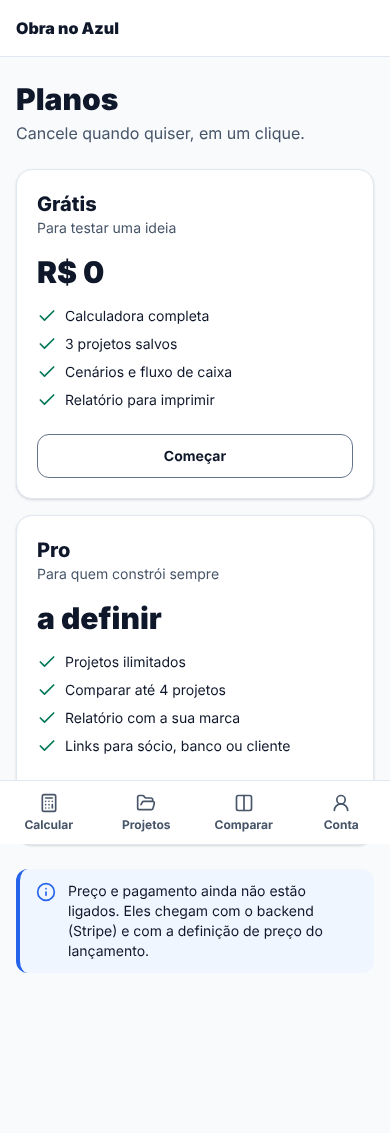
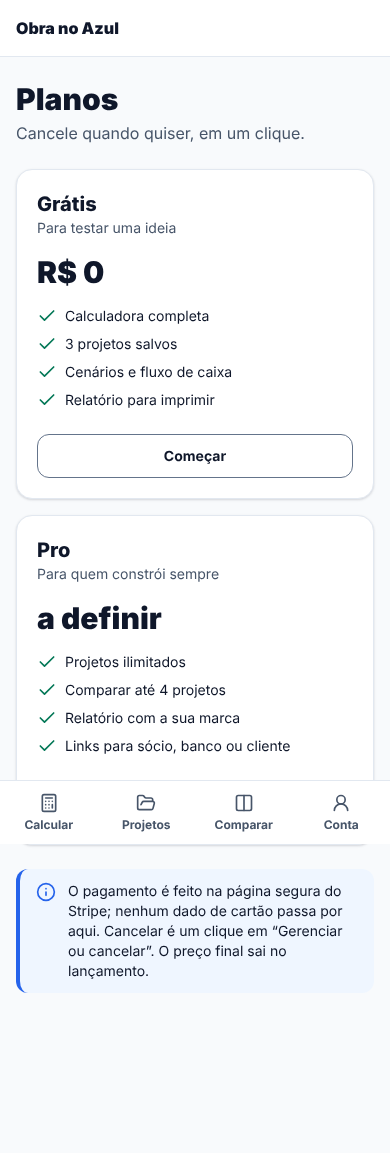
backend: backend checklist, feature matrix and refreshed screenshots
Claude-Session: https://claude.ai/code/session_016f3JqGY3hF1P1CWisDVzY6

diff --git a/replica/backend.md b/replica/backend.md
@@ -1,0 +1,116 @@
+# Backend
+
+Data: 2026-10-18. Stack do `architecture.md`: Supabase (Postgres + RLS + Auth +
+Storage), Stripe, Resend, jobs na Vercel. Sem as chaves do Supabase o app
+continua em modo demonstração (localStorage), com as mesmas telas.
+
+## O que foi testado, e o que não
+
+| parte | como foi testado | resultado |
+| --- | --- | --- |
+| migrations | `scripts/db-migrate.sh` num Postgres 16 local, com um `auth` imitando o do Supabase; rodar duas vezes não repete | ok |
+| RLS | segundo usuário: 0 projetos, cenários, links e assinaturas de outro; não altera nada; não grava CUB (não admin), `job_runs`, `rate_limits`; não chama `hit_rate_limit` | ok |
+| plano | service role (webhook) muda `plan`; o próprio usuário não consegue | ok |
+| limite free | 4º projeto ativo recusado no banco (trigger com trava) | ok (no build anterior) |
+| rate limit | 3ª tentativa numa janela de 2 é recusada | ok |
+| webhook Stripe | 13 testes: checkout, criado/atualizado/cancelado, past_due, cliente sem metadata, cliente desconhecido, pagamento falhou (1 e-mail), evento repetido, falha no meio não marca o evento | ok |
+| assinatura do webhook | biblioteca oficial do Stripe, offline: válida, corpo alterado, outro segredo, replay de 1 h | ok |
+| rotas | webhook 400 sem/ com assinatura ruim e 200 com boa; cron 401 sem segredo, 404 job desconhecido | ok |
+| segredos | build com chaves falsas marcadas: nenhuma no bundle do navegador | ok |
+| modo Supabase (fumaça) | com URL falsa: tela de login completa, erro amigável, páginas pedem login, checkout 401, webhook 400, cron 401, `/auth/callback?next=//evil.com` não redireciona para fora | ok |
+| **login, banco e storage de verdade** | **não testado**: a rede deste ambiente bloqueia as imagens Docker do Supabase local (CDN `d2glxqk2uabbnd.cloudfront.net`) | pendente |
+| **Stripe de verdade (Checkout, Portal)** | **não testado**: precisa das suas chaves de teste | pendente |
+| **envio de e-mail (Resend)** | **não testado**: precisa da sua chave e domínio | pendente |
+
+Para testar de verdade na sua máquina: `supabase start`, `scripts/db-migrate.sh`
+(ou `supabase db reset`), `node scripts/seed.mjs`, `stripe listen --forward-to
+localhost:3000/api/stripe/webhook`, `pnpm --filter web dev`.
+
+## O que você precisa fazer (contas e chaves são suas)
+
+1. **Supabase**: criar o projeto (região São Paulo), copiar URL, chave anon e
+   service role para `apps/web/.env.local` (modelo em `apps/web/.env.example`).
+   Rodar `DATABASE_URL=… scripts/db-migrate.sh` ou `supabase db push`.
+   - Authentication > URL Configuration: Site URL e `…/auth/callback` nos redirects.
+   - Authentication > Emails: colar os 4 modelos de `supabase/templates/` e
+     ligar SMTP do Resend (senão o Supabase manda poucos e-mails por hora, do domínio dele).
+   - Authentication > Rate limits: conferir os valores de `supabase/config.toml`.
+   - Backups: o plano pago do Supabase faz backup diário; no grátis, não. **Confirme
+     antes do lançamento.**
+2. **Google (login)**: criar o OAuth client no Google Cloud com o redirect
+   `https://<projeto>.supabase.co/auth/v1/callback`, colar ID e segredo em
+   Authentication > Providers > Google. Escopos: só `openid email profile`, que
+   não exigem a verificação demorada do Google (só a tela de consentimento com
+   nome, logo e política de privacidade).
+3. **Stripe (modo teste)**: produto "Pro" com dois preços (mensal e anual, em
+   BRL); Customer Portal com **cancelar ligado**; webhook para
+   `/api/stripe/webhook` com os 5 eventos abaixo; chaves no `.env.local`.
+   Conferir se Pix/boleto valem para assinatura na sua conta Stripe BR.
+4. **Resend**: verificar o domínio (SPF/DKIM, vem no `/replica-deploy`), criar a
+   chave, definir `EMAIL_FROM` e `ADMIN_EMAIL`.
+5. **Vercel**: `CRON_SECRET` aleatório; os jobs estão em `apps/web/vercel.json`.
+6. **Admin do CUB**: `update profiles set is_admin = true where id = '<seu id>';`
+   no SQL editor, e importar a tabela em Conta.
+
+## Auth
+
+- [x] e-mail + senha com confirmação por e-mail (`/entrar` → Criar conta)
+- [x] link de acesso por e-mail (magic link)
+- [x] esqueci a senha → `/auth/nova-senha`
+- [x] Google (OAuth com o app do usuário)
+- [x] sessão em cookies http-only (`@supabase/ssr`), renovada no `middleware.ts`
+- [x] sair, e sair de todos os aparelhos (`signOut({ scope: "global" })`)
+- [x] `/auth/callback` aceita `code` e `token_hash`, e só redireciona para caminhos internos
+- [x] exclusão de conta de verdade: apaga o cliente no Stripe (cancela a assinatura), o logo no Storage e o usuário (cascade: perfil, projetos, cenários, links)
+- [ ] Apple: não há app nas lojas ainda; entra com o Expo
+- Papéis: um dono por projeto; `is_admin` só para importar CUB (recon não tem times)
+
+## Banco
+
+- [x] migrations em `supabase/migrations/`, aplicadas por `scripts/db-migrate.sh` (ou `supabase db push`)
+- [x] RLS em todas as tabelas; `stripe_events`, `rate_limits`, `job_runs` sem policy (só service role)
+- [x] testado com segundo usuário (tabela acima)
+- [x] seed: `scripts/seed.mjs` (2 usuários `@exemplo.invalid`, 2 projetos cada, CUB **fictício** com fonte `exemplo.invalid`); recusa rodar fora de localhost
+- [ ] backups ligados: depende do plano do Supabase (passo 1)
+
+## Pagamentos (Stripe, modo teste)
+
+- [x] Checkout hospedado para assinar (mensal/anual), sem formulário de cartão
+- [x] Customer Portal para trocar cartão e **cancelar em um clique**
+- [x] webhook: assinatura verificada, idempotente (evento registrado depois do efeito; efeitos são upserts)
+- [x] eventos: `checkout.session.completed`, `customer.subscription.created`, `.updated`, `.deleted`, `invoice.payment_failed`
+- [x] status em `subscriptions` + `profiles.plan`, escritos só pelo webhook; o app lê do banco
+- [x] o plano Pro tira o limite de 3 projetos (trigger do banco)
+- [ ] os outros itens do Pro listados em /planos (comparar 4, logo, links) **não estão bloqueados no plano grátis**: decidir no `/replica-launch` o que fica pago e aí bloquear no servidor
+
+## E-mail e jobs
+
+- [x] Resend pela API, do domínio do usuário; modelos novos em português com versão texto (`lib/email-templates.ts`); sem chave, não envia e avisa no log
+- [x] e-mails do login: `supabase/templates/` (confirmação, link de acesso, nova senha, troca de e-mail)
+- [x] jobs (`/api/cron/[job]`, protegidos por `CRON_SECRET`, horários em UTC):
+  - `cub-stale`, dia 10, 12:00: avisa o admin de CUB com mais de 2 meses
+  - `stripe-reconcile`, diário 06:00: corrige assinaturas se um webhook se perdeu
+  - `prune`, diário 06:30: limpa janelas de rate limit
+- [x] 3 tentativas com espera crescente; item que falha vai para `job_runs` como `dead_letter`
+
+## Integrações
+
+| integração | API oficial | escopos | revisão | limites |
+| --- | --- | --- | --- | --- |
+| Google login | Google Identity via Supabase Auth | `openid email profile` | só tela de consentimento (sem escopo sensível, sem verificação longa) | — |
+| Stripe | API + Checkout + Portal | — | ativar a conta (dados da empresa) antes do modo live | 100 req/s em live |
+| Resend | REST `/emails` | — | verificar domínio | plano grátis: 100 e-mails/dia |
+| Sinduscon (CUB) | **não há API**: PDFs mensais por estado | — | — | importação manual com link da fonte |
+
+## Checklist de segurança
+
+- [x] segredos só em variáveis de ambiente; `.env*` no `.gitignore` (menos `.env.example`); `server-only` nos módulos com segredo; build verificado sem segredo no navegador
+- [x] entrada validada no servidor com zod em toda escrita e rota (`app/actions.ts`, rotas do Stripe)
+- [x] autorização em toda leitura e escrita: RLS + usuário conferido no servidor (`auth.getUser()`), testado com segundo usuário
+- [x] rate limit: login/cadastro/e-mails pelo Supabase Auth (`config.toml`); checkout, portal, importar CUB, criar link, logo e excluir conta por `hit_rate_limit`
+- [x] webhooks verificam assinatura (e recusam replay)
+- [x] uploads: só PNG/JPG (assinatura do arquivo conferida, sem SVG), até 1 MB, bucket privado com URL assinada de 10 min
+- [x] sem dados do usuário em URLs ou logs (logs só com códigos; e-mail nunca logado). Exceção conhecida: o token do link compartilhado está na URL, por definição (144 bits, revogável)
+- [x] dependências auditadas: produção sem vulnerabilidades conhecidas (postcss do Next forçado para 8.5.28; vitest 3 → 4.1.11). Restam 2 só de build: `braces` (sem versão corrigida) e `postcss-selector-parser` do Tailwind 3 (corrigir exige Tailwind 4); ambos só leem o código do próprio projeto
+- [ ] política de privacidade listando Supabase, Vercel, Stripe, Resend, Google, Sentry e Plausible: texto vem no `/replica-launch`, página no `/replica-deploy`
+- [ ] desarquivar projeto não confere o limite do plano grátis (o trigger só olha inserção). Baixo risco; corrigir no `/replica-test`
